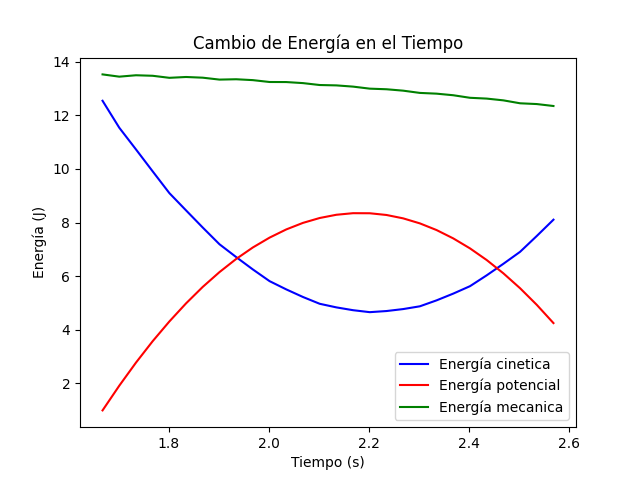
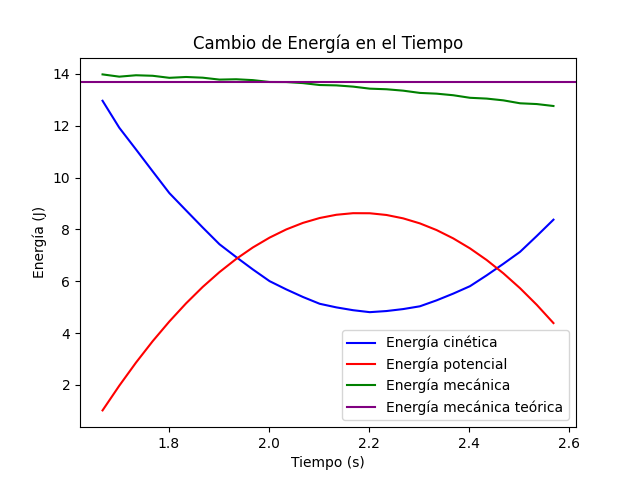
fix graficos puntos

diff --git a/src/basket-doble/pandas_procesing.py b/src/basket-doble/pandas_procesing.py
@@ -93,7 +93,8 @@ def graficar_velocidad_tiempo(tabla, coordenada, guardar_grafica=None, mostrar_g
     # tipo de grafico y variables a usar
     fig , ax = plt.subplots()
     ax.plot(tiempo, velocidad_teorica, color="blue", label="teorica")
-    ax.scatter(tiempo, velocidad, color="red", label="real")
+    ax.plot(tiempo, velocidad, color="red", label="real")
+    ax.legend()
     # etiquetas
     plt.xlabel('tiempo (segundos)')
     plt.ylabel('velocidad (m/s)')
@@ -132,6 +133,7 @@ def graficar_posicion_tiempo(tabla, coordenada, guardar_grafica=None, mostrar_gr
     plt.ylabel('posicion (m)')
     # titulo
     plt.title('posicion en '+coordenada+' en el tiempo')
+    #plt.ylim(-1, 5)
 
     if guardar_grafica:
         plt.savefig(RUTA_CARPETA_IMAGENES + "posicion_tiempo_" + coordenada + ".png")
@@ -159,7 +161,8 @@ def graficar_aceleracion_tiempo(tabla, coordenada, guardar_grafica=None, mostrar
     fig, ax = plt.subplots()
     # tipo de grafico y variables a usar
     ax.plot(tiempo, aceleracion_teorica, color="blue", label="teorica")
-    ax.scatter(tiempo, aceleracion, color="red", label="real")
+    ax.plot(tiempo, aceleracion, color="red", label="real")
+    ax.legend()
     # etiquetas
     plt.xlabel('tiempo (segundos)')
     plt.ylabel('aceleracion (m/s^2)')
@@ -329,11 +332,11 @@ def energia_cinetica(tabla):
     velocidad_x : float = pd.to_numeric(tabla["velocityX"], errors="coerce")
     velocidad_y : float = pd.to_numeric(tabla["velocityY"], errors="coerce")
 
-    return 0.5 * 0.6 * ((np.sqrt(velocidad_x** 2 + velocidad_y ** 2)) ** 2)
+    return 0.5 * 0.62 * ((np.sqrt(velocidad_x** 2 + velocidad_y ** 2)) ** 2)
 
 def energia_potencial(tabla):
     pos_y : float = pd.to_numeric(tabla["Y"], errors="coerce")
-    return 9.81 * 0.6 * pos_y
+    return 9.81 * 0.62 * pos_y
 
 def generar_datos_energia(tabla):
     tabla_nueva = tabla.copy()
@@ -351,10 +354,12 @@ def graficar_energia(tabla,guardar_grafica=None, mostrar_grafica=None):
     cinetica = tabla["Energia_cinetica"].iloc[1:]
     potencial = tabla["Energia_potencial"].iloc[1:]
     mecanica = tabla["Energia_mecanica"].iloc[1:]
+    mecanica_teorica = 13.6756
 
-    ax.plot(tiempo, cinetica, color="blue", label="Energía cinetica")
+    ax.plot(tiempo, cinetica, color="blue", label="Energía cinética")
     ax.plot(tiempo, potencial, color="red", label="Energía potencial")
-    ax.plot(tiempo, mecanica, color="green", label="Energía mecanica")
+    ax.plot(tiempo, mecanica, color="green", label="Energía mecánica")
+    ax.axhline(y=mecanica_teorica, color="purple", label="Energía mecánica teórica")
 
     ax.legend()
 
@@ -374,23 +379,24 @@ def main():
     ##################################################
     #           EJEMPLO DE EJECUCION                 #
     ##################################################
+    MOSTRAR_GRAFICOS = False
     # Importar datos de csv
     tabla_movimiento = pd.read_csv(RUTA_CSV)
     # agregar datos de movimiento a la tabla
     tabla_movimiento = generar_datos_movimiento_metros(tabla_movimiento)
     # graficos de la coordenada x
-    graficar_posicion_tiempo(tabla_movimiento, "X", 1, 1)
-    graficar_velocidad_tiempo(tabla_movimiento, "X", 1, 1)
+    graficar_posicion_tiempo(tabla_movimiento, "X", 1, MOSTRAR_GRAFICOS)
+    graficar_velocidad_tiempo(tabla_movimiento, "X", 1, MOSTRAR_GRAFICOS)
     # graficos de la coordenada y
-    graficar_posicion_tiempo(tabla_movimiento, "Y", 1, 1)
-    graficar_velocidad_tiempo(tabla_movimiento, "Y", 1, 1)
-    graficar_aceleracion_tiempo(tabla_movimiento, "Y", 1, 1)
+    graficar_posicion_tiempo(tabla_movimiento, "Y", 1, MOSTRAR_GRAFICOS)
+    graficar_velocidad_tiempo(tabla_movimiento, "Y", 1, MOSTRAR_GRAFICOS)
+    graficar_aceleracion_tiempo(tabla_movimiento, "Y", 1, MOSTRAR_GRAFICOS)
     # graficar posicion de x respecto a y
-    graficar_posicion_xy(tabla_movimiento, 1, 1)
+    graficar_posicion_xy(tabla_movimiento, 1, MOSTRAR_GRAFICOS)
     # generar datos de energia
     tabla_movimiento = generar_datos_energia(tabla_movimiento)
     # graficar energia
-    graficar_energia(tabla_movimiento, 1, 1)
+    graficar_energia(tabla_movimiento, 1, MOSTRAR_GRAFICOS)
     # exportar a csv
     tabla_movimiento = tabla_movimiento.round(6)
     tabla_movimiento.to_csv(RUTA_OUTPUT_CSV, index=False)
